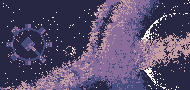
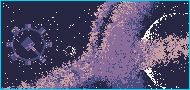
pull me please

Changed region(s): [[0.0, 0.0, 1.0, 1.0]]

diff --git a/src/driver.cpp b/src/driver.cpp
@@ -202,8 +202,9 @@ void solaris::initVariables(){
     cout << "UI Loaded." << endl;
 
     cout << "Loading Minimap" << endl;
-    this->miniTex.loadFromFile("media/minimap.png");
+    this->miniTex.loadFromFile("media/astronaut/bgimg.png");
     this->miniSprite.setTexture(miniTex);
+    this->miniPlayer.setRadius(20.0f);
 
     // Shaders
     // shader.loadFromFile("include/blur.frag", Shader::Fragment);
@@ -241,8 +242,9 @@ void solaris::initWindow(){
     // Making GUI Views
     this->guiView = this->window->getDefaultView();
     this->miniView = this->window->getDefaultView();
-    this->miniSprite.setScale(Vector2f(100.f, 100.0f));
+
     this->miniView.setViewport(sf::FloatRect(0.75f, 0.f, 0.25f, 0.25f));
+    this->miniSprite.setScale(sf::Vector2f(this->miniView.getSize().x/miniSprite.getTextureRect().width, this->miniView.getSize().y/miniSprite.getTextureRect().height));
 }
 
 // Accessors
@@ -274,26 +276,26 @@ void solaris::set_camera() {
     }
     
     // Centering the miniview
-    miniView.setCenter(astro.getPosition().x,
-                     astro.getPosition().y);
+    // miniView.setCenter(astro.getPosition().x,
+    //                    astro.getPosition().y);
     
     
     // Checking for camera going out of bounds
-    if (miniView.getCenter().x - miniView.getSize().x/2 < 0){
-        miniView.setCenter(0+miniView.getSize().x/2, miniView.getCenter().y);
-    }
+    // if (miniView.getCenter().x - miniView.getSize().x/2 < 0){
+    //     miniView.setCenter(0+miniView.getSize().x/2, miniView.getCenter().y);
+    // }
 
-    if (miniView.getCenter().x + miniView.getSize().x/2 > SPACE_WIDTH){
-        miniView.setCenter(SPACE_WIDTH - miniView.getSize().x/2, miniView.getCenter().y);
-    }
+    // if (miniView.getCenter().x + miniView.getSize().x/2 > SPACE_WIDTH){
+    //     miniView.setCenter(SPACE_WIDTH - miniView.getSize().x/2, miniView.getCenter().y);
+    // }
 
-    if (miniView.getCenter().y - miniView.getSize().y/2 < 0){
-        miniView.setCenter(miniView.getCenter().x, 0+miniView.getSize().y/2 );
-    }
+    // if (miniView.getCenter().y - miniView.getSize().y/2 < 0){
+    //     miniView.setCenter(miniView.getCenter().x, 0+miniView.getSize().y/2 );
+    // }
 
-    if (miniView.getCenter().y + miniView.getSize().y/2 > SPACE_HEIGHT){
-        miniView.setCenter(miniView.getCenter().x, SPACE_HEIGHT - miniView.getSize().y/2);
-    }
+    // if (miniView.getCenter().y + miniView.getSize().y/2 > SPACE_HEIGHT){
+    //     miniView.setCenter(miniView.getCenter().x, SPACE_HEIGHT - miniView.getSize().y/2);
+    // }
     
 }
 
@@ -539,7 +541,10 @@ void solaris::outerspace_render(){
     this->window->draw(this->healthBar);
 
     this->window->setView(miniView);
+    std::cout << "miniPlayer X: " << miniPlayer.getPosition().x << "| miniPlayer Y: " << miniPlayer.getPosition().y << std::endl;
+    std::cout << "astro X: " << astro.getPosition().x << "| astro Y: " << astro.getPosition().y << std::endl;
     this->window->draw(this->miniSprite);
+    this->window->draw(this->miniPlayer);
     this->window->display();
 }
 
@@ -598,6 +603,9 @@ void solaris::outerspace_update(){
     // RAY TESTING
     ray1.setPos(astro.getPosition());
     ray1.lookAt(Vector2f(this->window->mapPixelToCoords(Mouse::getPosition(*this->window)) ));
+
+    // MINIMAP
+    miniPlayer.setPosition(sf::Vector2f (astro.getPosition().x / 0.6, astro.getPosition().y / 0.6));
 }
 
 // Ship screens

diff --git a/include/driver.h b/include/driver.h
@@ -215,6 +215,7 @@ class solaris {
 		float blocRotVel;
 		float blocRotAcc;
 
+
 		// Habitat
 		Sprite habitat;
 		Texture habTexture;
@@ -249,6 +250,7 @@ class solaris {
 		View camera;
 		View guiView;
 		View miniView;
+		CircleShape miniPlayer;
 		float SPACE_WIDTH;
 		float SPACE_HEIGHT;
 		float astroSpeed;
